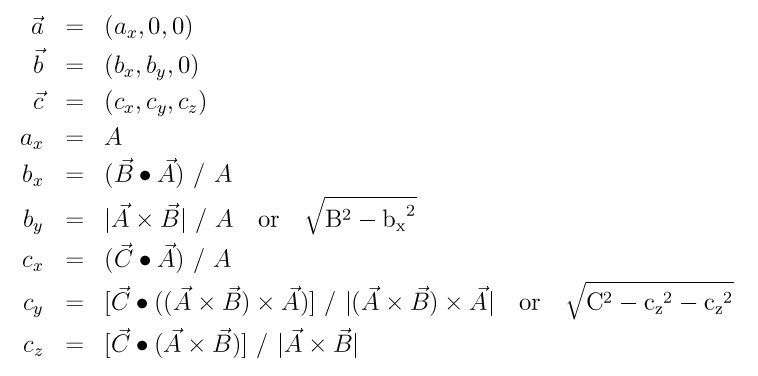
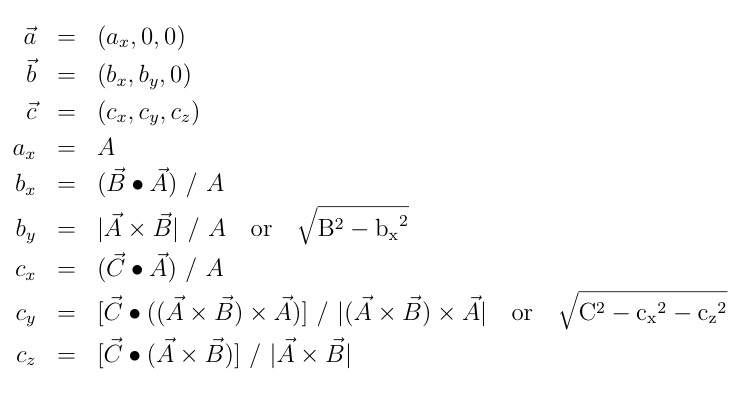
Fixed typo in transform
git-svn-id: svn://svn.icms.temple.edu/lammps-ro/trunk@7827 f3b2605a-c512-4ea7-a41b-209d697bcdaa

diff --git a/Eqs/transform.tex b/Eqs/transform.tex
@@ -10,7 +10,7 @@ a_x &=& A \\
 b_x &=& (\vec{B} \bullet \vec{A}) \,\, / \,\, A \\
 b_y &=& |\vec{A} \times \vec{B}| \,\, / \,\, A \quad \rm{or} \quad  \sqrt{B^2 - {b_x}^2} \\
 c_x &=& (\vec{C} \bullet \vec{A}) \,\, / \,\, A \\
-c_y &=& [\vec{C} \bullet ((\vec{A} \times \vec{B}) \times \vec{A})] \,\, / \,\, |(\vec{A} \times \vec{B}) \times \vec{A}| \quad \rm{or} \quad \sqrt{C^2 - {c_z}^2 -{c_z}^2} \\
+c_y &=& [\vec{C} \bullet ((\vec{A} \times \vec{B}) \times \vec{A})] \,\, / \,\, |(\vec{A} \times \vec{B}) \times \vec{A}| \quad \rm{or} \quad \sqrt{C^2 - {c_x}^2 -{c_z}^2} \\
 c_z &=& [\vec{C} \bullet (\vec{A} \times \vec{B})] \,\, / \,\, |\vec{A} \times \vec{B}| \\
 \end{eqnarray*}
 
